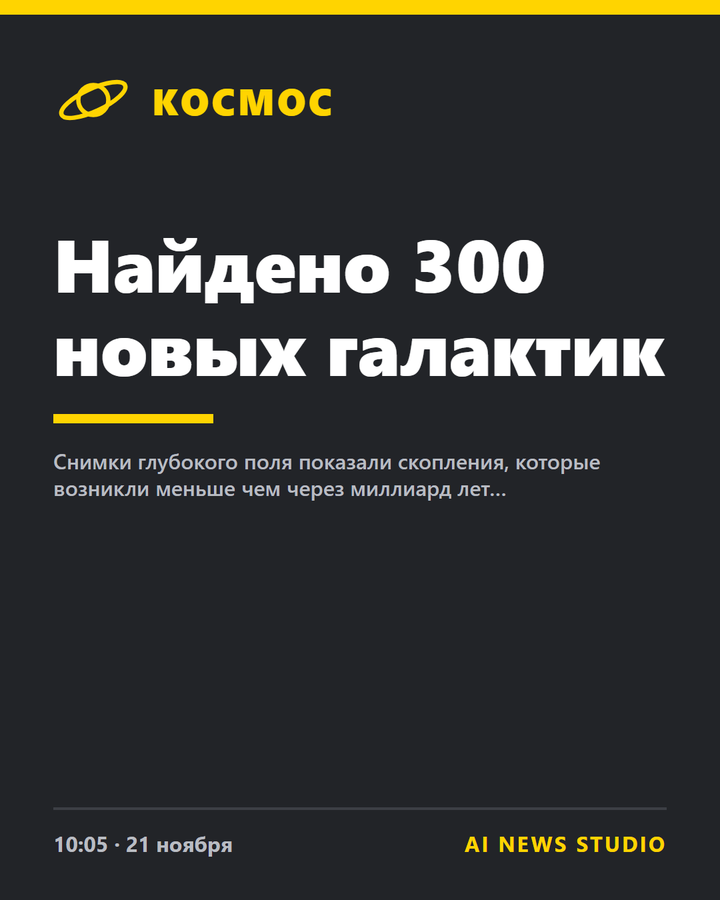
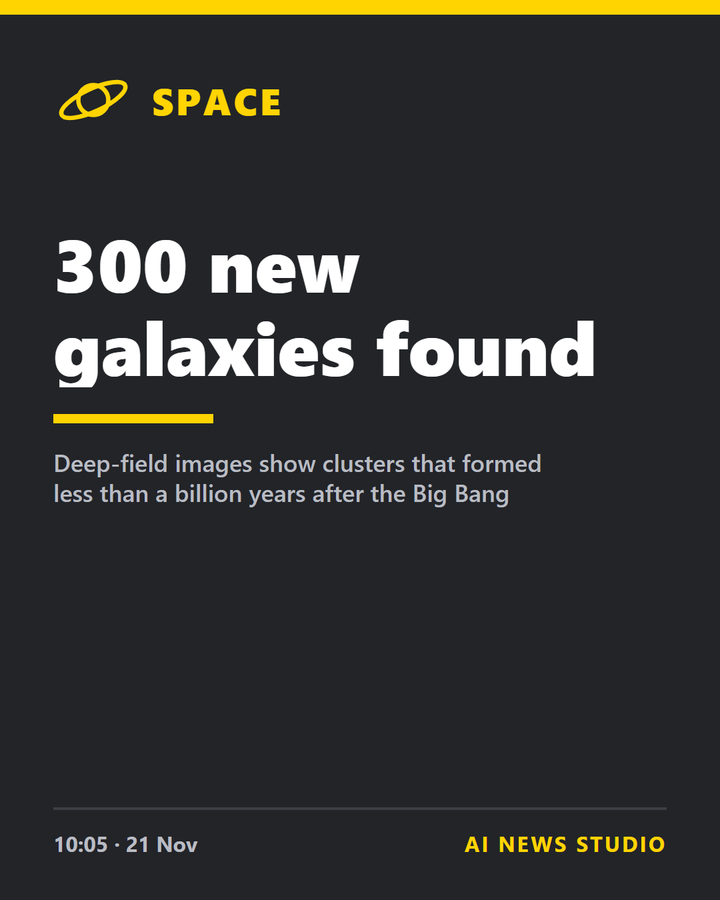
docs: English sample cards

diff --git a/README.md b/README.md
@@ -16,7 +16,7 @@ Interface language: Russian (the channel publishes in Russian).
 
 ## Screenshots
 
-Infographic cards rendered by `src/card.js` (headline and figure layouts) from sample post text. The figure layout is picked automatically when the post has a notable number.
+Infographic cards rendered by `src/card.js` (headline and figure layouts) from English sample text; the live channel renders the same layouts in Russian. The figure layout is picked automatically when the post has a notable number.
 
 | Headline layout | Figure layout |
 |---|---|
